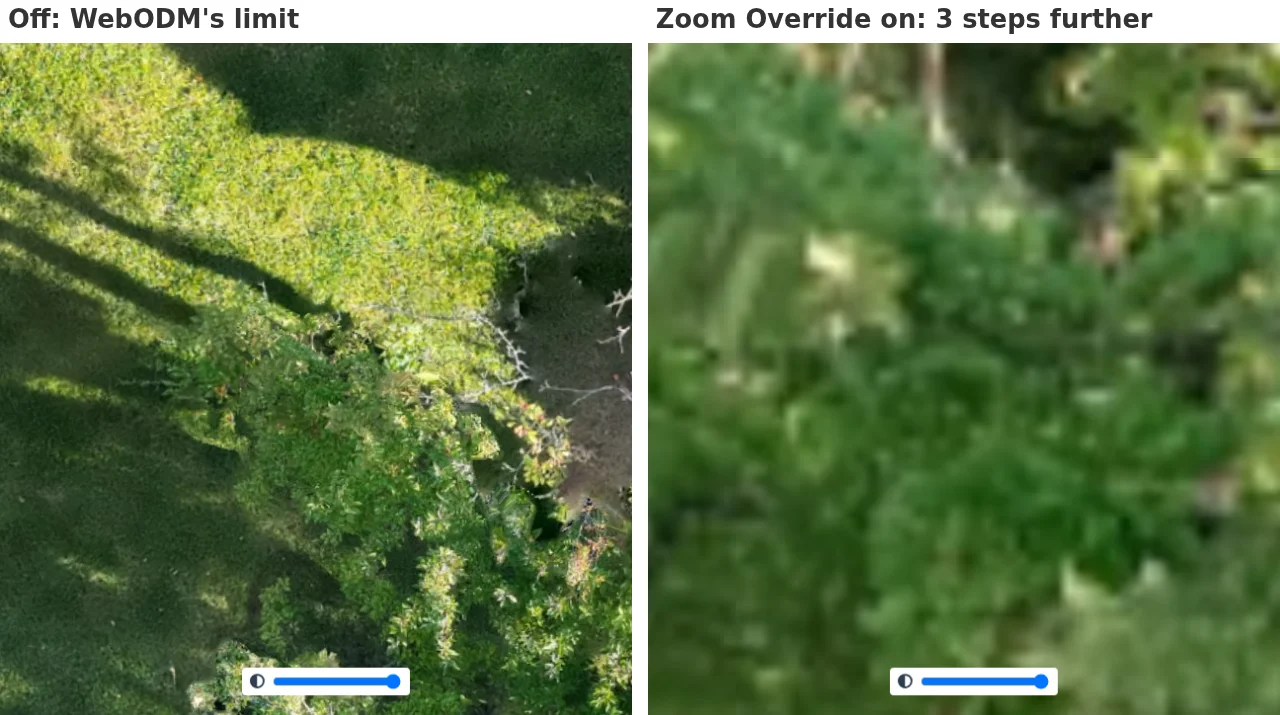
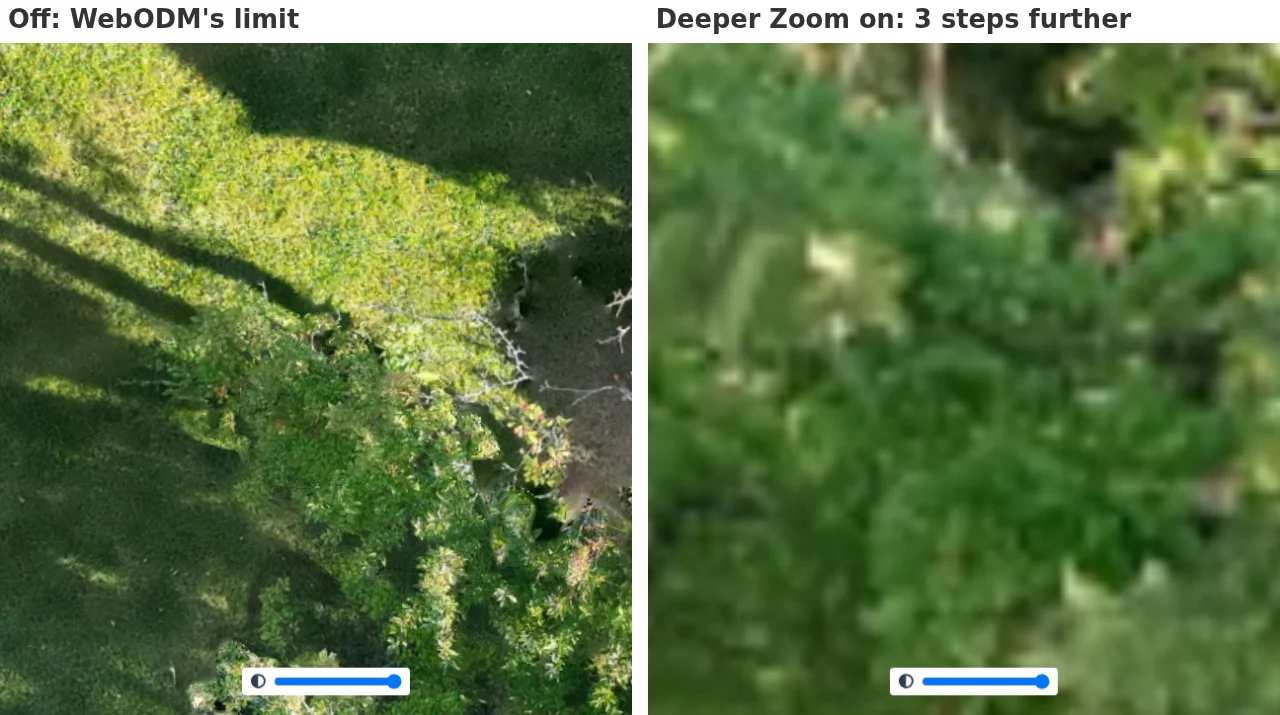
UX review: setting names
Every setting is named after what you get, without "Show" or "Add", with the same name in Settings and
Administration (the list the user approved is in upcoming-changes.md). The setting keys, element ids and preview
files are unchanged, so saved settings carry over. Docs headings are renamed, and the anchors released in 1.0.0
keep working through an empty div before each heading. The zoom-override-2d screenshot is retaken for its caption.

Changed region(s): [[0.5, 0.0, 0.9062, 0.0615]]

diff --git a/tweakui/public/main.css b/tweakui/public/main.css
@@ -157,7 +157,7 @@ html.tweakui #side-menu > li:has(> a[href="/plugins/tweakui/"]):not(.tweakui-men
 html.tweakui-header-compact #navbar-top .navbar-top-links > li > a { padding-left: 8px; padding-right: 8px; }
 html.tweakui-header-nameless #navbar-top .navbar-header > .navbar-link { display: none; }
 
-/* Hide Navigation Pane (nav_pane.js): a small tab on the divider between the side menu and the page, fixed below the
+/* Collapsible Navigation Pane (nav_pane.js): a small tab on the divider between the side menu and the page, fixed below the
    header (its top set by the script); hidden, the side menu goes and the page takes the whole width, the tab at the
    left edge, within the page's 15 px padding. Only where the side menu is beside the page (from 768 px, as WebODM's
    sb-admin-2.css); narrower it is the header's hamburger menu, left as it is. The tab is in the header, as the side
@@ -170,14 +170,14 @@ html.tweakui .tweakui-nav-tab { display: none; }
     /* The page's left padding makes room for the tab at its edge, so it doesn't touch the page's title */
     html.tweakui.tweakui-nav-hidden #page-wrapper { margin-left: 0; padding-left: 30px; }
     html.tweakui.tweakui-nav-hidden .tweakui-nav-tab { left: 0; border-left-width: 0; border-radius: 0 4px 4px 0; }
-    /* Auto-hide Navigation Pane: the hidden pane shown over the page (which keeps its whole width), fixed below the
+    /* Auto-hide: the hidden pane shown over the page (which keeps its whole width), fixed below the
        header (--tweakui-nav-top, from the script) to the bottom of the window, scrolling on its own; the tab on its
        edge */
     html.tweakui.tweakui-nav-hidden.tweakui-nav-peek .navbar-default.sidebar { display: block; position: fixed; top: var(--tweakui-nav-top, 51px); bottom: 0; margin-top: 0; overflow-y: auto; box-shadow: 2px 0 8px rgba(0, 0, 0, 0.35); }
     html.tweakui.tweakui-nav-hidden.tweakui-nav-peek .tweakui-nav-tab { left: calc(var(--tweakui-nav-width, 250px) - 7px); border-left-width: 1px; border-radius: 4px; }
 }
 
-/* Resize Navigation Pane (nav_pane.js): the side menu and the page beside it take the width the script puts in
+/* Resizable Navigation Pane (nav_pane.js): the side menu and the page beside it take the width the script puts in
    --tweakui-nav-width; labels too long are cut off. The handle is a strip on the divider, from the header down,
    highlighted while the pointer is on it; under Bootstrap's dialogs (1040 and up). Icons only (the narrowest): the
    links' text at size 0 but their first icon, their tooltips the script's, submenu items unindented. */
@@ -198,15 +198,15 @@ html.tweakui .tweakui-nav-handle { display: none; }
     html.tweakui.tweakui-nav-hidden .tweakui-nav-handle { display: none; }
 }
 
-/* Show Configured Option Count (task_options.js): the heading's count in place of WebODM's own number */
+/* Configured Option Counts (task_options.js): the heading's count in place of WebODM's own number */
 .option-group-header[data-tweakui-count] > .option-count { display: none; }
 .option-group-header[data-tweakui-count]::after { content: attr(data-tweakui-count); font-size: 0.9em; }
-/* Expand Configured Options (task_options.js): a collapsed group shows its configured options, over WebODM's inline display: none */
+/* Configured Options When Collapsed (task_options.js): a collapsed group shows its configured options, over WebODM's inline display: none */
 .option-group[data-tweakui-expand] > .option-group-content { display: block !important; }
 .option-group[data-tweakui-expand] .option-subgroup:not([data-tweakui-configured]),
 .option-group[data-tweakui-expand] .processing-node-option:not([data-tweakui-configured]) { display: none; }
 
-/* General > Task Details > Expand Task Controls (task_controls.js): a task as buttons only, its +/- a caret */
+/* General > Task Details > Task Buttons When Minimized (task_controls.js): a task as buttons only, its +/- a caret */
 .task-list-item[data-tweakui-controls="buttons"] > .expanded-panel > .row:first-child { display: none; }
 .task-list-item[data-tweakui-controls="buttons"] > .row > .name > i.fa-minus-square::before { content: "\f150"; }
 
@@ -222,7 +222,7 @@ html.tweakui .tweakui-nav-handle { display: none; }
 /* The Current Step label keeps its count on its line */
 .info-table tr[data-tweakui-row="step"] > td:first-child { white-space: nowrap; padding-right: 8px; }
 
-/* 2D Map > Movable Controls (movable_controls.js): a panel is dragged by its title; a moved one stays above the
+/* 2D Map > Movable Panels (movable_controls.js): a panel is dragged by its title; a moved one stays above the
    others */
 html.tweakui-movable .leaflet-control .title,
 html.tweakui-movable .leaflet-control .leaflet-control-autolayers-title,
@@ -240,7 +240,7 @@ html.tweakui-dragging, html.tweakui-dragging * { user-select: none; }
 .tweakui-other-tasks .tweakui-other-task-name input { margin: 0; flex: none; }
 .tweakui-other-tasks .tweakui-other-task-opacity { width: 90px; flex: none; }
 
-/* 2D Map > Add Search Button (map_search.js): the button (Leaflet's bar), and the box it opens in its place */
+/* 2D Map > Map Search (map_search.js): the button (Leaflet's bar), and the box it opens in its place */
 .leaflet-control.tweakui-map-search a.tweakui-map-search-button { display: flex; align-items: center; justify-content: center; font-size: 14px; }
 .leaflet-control.tweakui-map-search .tweakui-map-search-box { display: none; width: 300px; max-width: calc(100vw - 40px); padding: 6px; border-radius: 4px; }
 .leaflet-control.tweakui-map-search.open a.tweakui-map-search-button { display: none; }
@@ -254,7 +254,7 @@ html.tweakui-dragging, html.tweakui-dragging * { user-select: none; }
 .leaflet-control.tweakui-map-search .tweakui-map-search-results a:hover { text-decoration: underline; }
 .tweakui-map-search .tweakui-map-search-results li.active a { font-weight: bold; }
 
-/* 2D Map and 3D Map > Zoom Override > Zoom Sensitivity: the button on the map (a Leaflet control at the bottom left;
+/* 2D Map > Deeper Zoom and 3D Map > Zoom to Pointer > Zoom Sensitivity: the button on the map (a Leaflet control at the bottom left;
    in the 3D view an action button) and its panel, beside it on the 2D map and above it in the 3D view */
 .tweakui-zoom-sensitivity { position: relative; }
 .tweakui-zoom-sensitivity-3d { display: inline-block; }
@@ -492,7 +492,7 @@ html.tweakui-dragging, html.tweakui-dragging * { user-select: none; }
     pointer-events: none;
 }
 
-/* Replace Preset Options Menu (preset_menu.js): TweakUI's menu in place of WebODM's preset select (hidden, kept on
+/* Preset Menu with Filter (preset_menu.js): TweakUI's menu in place of WebODM's preset select (hidden, kept on
    the page), shaped like it: a form-control button with a chevron, and a Bootstrap dropdown menu in theme colours. */
 .edit-task-form select[data-tweakui-presets] { display: none !important; }
 .tweakui-presets { display: inline-block; vertical-align: middle; position: relative; max-width: 100%; }

diff --git a/tweakui/public/nav_pane.js b/tweakui/public/nav_pane.js
@@ -1,17 +1,17 @@
-// General > Navigation Pane > Hide Navigation Pane: a small tab on the divider between the side menu (WebODM's
+// General > Navigation Pane > Collapsible Navigation Pane: a small tab on the divider between the side menu (WebODM's
 // navigation pane) and the page, near the top. A click hides the pane, the page takes the whole width and only the
-// tab stays, at the left edge. The tab cycles: the pane at WebODM's width -> its icons alone (the same view as Resize
+// tab stays, at the left edge. The tab cycles: the pane at WebODM's width -> its icons alone (the same view as Resizable
 // Navigation Pane's narrowest) -> hidden -> WebODM's width again. Remembered in this browser (localStorage), so the
 // next page opens the same way. Only where WebODM shows the pane beside the page (768 px wide and more, main.css); narrower,
 // the pane is the header's hamburger menu, left as it is. The settings page announces each saved change
 // ("tweakuiSettingsChanged"), so turning it on or off there shows or removes the tab at once.
-// General > Navigation Pane > Resize Navigation Pane: the divider is a handle; dragging it sets the side menu's width,
+// General > Navigation Pane > Resizable Navigation Pane: the divider is a handle; dragging it sets the side menu's width,
 // from its icons' column to half the window, and a double click puts back WebODM's 250 px. Narrower than SNAP, it
 // snaps to the icons alone: labels and submenu arrows hidden, each link's name as its tooltip, submenu items unindented
 // so their icons line up. Remembered in this browser too.
-// General > Navigation Pane > Hide Navigation Pane > Auto-hide Navigation Pane: the pane stays hidden until the
+// General > Navigation Pane > Collapsible Navigation Pane > Auto-hide: the pane stays hidden until the
 // pointer nears the window's left edge (or the keyboard's focus goes into it), then shows over the page, which keeps
-// its size (no resize: the maps don't redraw), at its remembered width (Resize Navigation Pane's, else WebODM's); it
+// its size (no resize: the maps don't redraw), at its remembered width (Resizable Navigation Pane's, else WebODM's); it
 // hides again Hide Delay after the pointer leaves it and the tab (or at once with Escape). The tab then pins the pane
 // open beside the page, as without auto-hide, and a second click unpins it; remembered in this browser. UMD, so Jest
 // can load it.
@@ -214,10 +214,10 @@
             html.classList.remove(TAB);
         }
 
-        // The pane as the settings and the pin want it. Hide Navigation Pane on: hidden or icons only as last time
+        // The pane as the settings and the pin want it. Collapsible Navigation Pane on: hidden or icons only as last time
         // (at once, before the page is drawn, so a hidden pane doesn't flash) and the tab once the page is parsed;
         // with auto-hide, hidden unless pinned (and never icons only: the tab pins instead of cycling). Off: the pane
-        // shown, no tab (and WebODM's width, unless Resize Navigation Pane keeps another)
+        // shown, no tab (and WebODM's width, unless Resizable Navigation Pane keeps another)
         function refresh() {
             var autoHide = enabled && auto;
             html.classList.toggle(AUTO, autoHide);
@@ -245,7 +245,7 @@
             pinned: function () { return pinned; }, tab: function () { return tab; }};
     }
 
-    // Resize Navigation Pane: the handle on the divider, and the pane's width
+    // Resizable Navigation Pane: the handle on the divider, and the pane's width
     // Also the pane's width for the tab's icons only, with or without the handle
     function createResize(doc, win) {
         var html = doc.documentElement, handle = null, width = DEFAULT_WIDTH, listeners = {};
@@ -401,7 +401,7 @@
             else removeHandle();
         }
 
-        // Hide Navigation Pane on or off: its tab may keep the icons alone
+        // Collapsible Navigation Pane on or off: its tab may keep the icons alone
         function allowIcons(enabled) {
             iconsOk = enabled;
             restore();

diff --git a/tweakui/public/__tests__/nav_pane.test.js b/tweakui/public/__tests__/nav_pane.test.js
@@ -67,7 +67,7 @@ test("turned on, a tab on the divider below the header cycles the pane: icons on
     expect(t.getAttribute("aria-expanded")).toBe("true");
 });
 
-test("icons only from the tab is the narrow view, without Resize Navigation Pane: each link's name as its tooltip", () => {
+test("icons only from the tab is the narrow view, without Resizable Navigation Pane: each link's name as its tooltip", () => {
     start({hide_nav_pane: true, resize_nav_pane: false});
     tab().click();
     expect(html.classList.contains("tweakui-nav-sized")).toBe(true);
@@ -177,7 +177,7 @@ test("a browser that blocks storage still hides and shows the pane, without reme
     expect(hidden()).toBe(true);
 });
 
-describe("Resize Navigation Pane", () => {
+describe("Resizable Navigation Pane", () => {
     const handle = () => document.querySelector(".tweakui-nav-handle");
     // jsdom has no PointerEvent: a MouseEvent of that type carries button and clientX
     const pointer = (type, x) => handle().dispatchEvent(new MouseEvent(type, {bubbles: true, cancelable: true, button: 0, clientX: x}));
@@ -298,7 +298,7 @@ describe("Resize Navigation Pane", () => {
     });
 });
 
-describe("Auto-hide Navigation Pane", () => {
+describe("Auto-hide", () => {
     const peeking = () => html.classList.contains("tweakui-nav-peek");
     const move = (x, y) => document.dispatchEvent(new MouseEvent("mousemove", {clientX: x, clientY: y, bubbles: true}));
     const pane = () => document.querySelector(".sidebar");
@@ -389,7 +389,7 @@ describe("Auto-hide Navigation Pane", () => {
         expect(hidden()).toBe(false);
     });
 
-    test("the tab no longer gives the icons alone, and the remembered width is Resize Navigation Pane's", () => {
+    test("the tab no longer gives the icons alone, and the remembered width is Resizable Navigation Pane's", () => {
         localStorage.setItem(navPane.WIDTH_KEY, "50");
         start({hide_nav_pane: true, auto_hide_nav_pane: true});
         expect(icons()).toBe(false);
@@ -398,7 +398,7 @@ describe("Auto-hide Navigation Pane", () => {
         expect(width()).toBe("320px");
     });
 
-    test("turned on and off from the settings page, it follows at once; without Hide Navigation Pane it does nothing", () => {
+    test("turned on and off from the settings page, it follows at once; without Collapsible Navigation Pane it does nothing", () => {
         start({hide_nav_pane: true});
         expect(hidden()).toBe(false);
         document.dispatchEvent(new CustomEvent("tweakuiSettingsChanged", {detail: {hide_nav_pane: true, auto_hide_nav_pane: true}}));

diff --git a/tweakui/public/__tests__/task_options.test.js b/tweakui/public/__tests__/task_options.test.js
@@ -85,7 +85,7 @@ test("without a dialog on the page nothing is watched", () => {
     expect(taskOptions.watch(document, {}, window)).toBeNull();
 });
 
-describe("Expand Configured Options", () => {
+describe("Configured Options When Collapsed", () => {
     // A dialog with subgroups, as EditPresetDialog renders a group with more than one; collapsed groups' content
     // has WebODM's inline display: none
     function grouped(groups) {
@@ -119,13 +119,13 @@ describe("Expand Configured Options", () => {
         expect(expanded(root)).toEqual([false]);
     });
 
-    test("without Show Configured Option Count the headings keep WebODM's own number", () => {
+    test("without Configured Option Counts the headings keep WebODM's own number", () => {
         const root = grouped([{collapsed: true, subgroups: [["feature-quality"]]}]);
         taskOptions.update(root, components({"feature-quality": "ultra"}), {expand: true});
         expect(counts(root)).toEqual([null]);
     });
 
-    test("without Expand Configured Options nothing is marked", () => {
+    test("without Configured Options When Collapsed nothing is marked", () => {
         const root = grouped([{collapsed: true, subgroups: [["feature-quality"]]}]);
         taskOptions.update(root, components({"feature-quality": "ultra"}), {count: true});
         expect(expanded(root)).toEqual([false]);
@@ -208,7 +208,7 @@ describe("Expand Configured Options", () => {
             expect(shownGroups(root)).toEqual([true]);
         });
 
-        test("without Expand Configured Options the button is left to WebODM", async () => {
+        test("without Configured Options When Collapsed the button is left to WebODM", async () => {
             const root = withButton([{collapsed: true, subgroups: [["feature-quality"]]}]);
             taskOptions.watch(document, components({"feature-quality": "ultra"}), window, {count: true});
             await press(root);

diff --git a/tweakui/public/surprise_me.js b/tweakui/public/surprise_me.js
@@ -2,7 +2,7 @@
 // turned off. A show lasts a few seconds and the next follows 4 to 8 seconds later; none starts while the tab is
 // hidden. A right-click (also a Mac's Ctrl+click) sends a rocket that bursts where the pointer is, instead of the
 // browser's menu (which text fields and Shift + right-click still get); a right-drag (the 3D view's pan) sends none.
-// Its part Enable Interaction (surprise_me_interaction, on by default) turns the right-click's rocket off, leaving the
+// Its part Rockets on Right-click (surprise_me_interaction, on by default) turns the right-click's rocket off, leaving the
 // mouse to the browser and the page. The fireworks are fireworks-js (vendor/fireworks-js, MIT), loaded only
 // when a show starts, on a canvas over the page that clicks go through. The settings page announces each saved
 // change ("tweakuiSettingsChanged"), so turning it on there starts a show at once and turning it off ends it at once.
@@ -211,7 +211,7 @@
             } else if (!enabled && on) stop();
         }
 
-        // Enable Interaction: off, a right-click is the browser's again (a press under way is let go)
+        // Rockets on Right-click: off, a right-click is the browser's again (a press under way is let go)
         function interact(enabled) {
             interactive = enabled;
             if (!enabled) press = released = null;

diff --git a/dev/screenshots.js b/dev/screenshots.js
@@ -13,7 +13,7 @@ const OUT = path.join(__dirname, "..", "tweakui", "public", "previews");
 const WIDTH = 1280, HEIGHT = 800, MAX_WIDTH = 1280;
 
 // Every shot: its name (the image's), the settings it turns on (on top of WebODM's theme, the rest as they are;
-// a Dashboard shot turns Expand Task Controls off, which expands every task of the project),
+// a Dashboard shot turns Task Buttons When Minimized off, which expands every task of the project),
 // and what it does to show the feature, returning what to capture: an element's selector, "page" for the
 // viewport, or {pair: [[label, png], ...]} for images side by side (two or three). A pair turns its setting on itself.
 // An optional cleanup(s) runs after the shot, also when it failed.
@@ -313,7 +313,7 @@ const SHOTS = [
                     await s.page.waitForTimeout(350);
                 }
                 await s.page.waitForTimeout(2500);
-                shots.push([on ? "Zoom Override on: 3 steps further" : "Off: WebODM's limit", await s.page.screenshot({clip: await s.middle(".leaflet-container")})]);
+                shots.push([on ? "Deeper Zoom on: 3 steps further" : "Off: WebODM's limit", await s.page.screenshot({clip: await s.middle(".leaflet-container")})]);
             }
             return {pair: shots};
         },

diff --git a/tweakui/public/task_options.js b/tweakui/public/task_options.js
@@ -1,9 +1,9 @@
-// General > Task Options > Show Configured Option Count: in the Task Options dialog (EditPresetDialog in WebODM),
+// General > Task Options > Configured Option Counts: in the Task Options dialog (EditPresetDialog in WebODM),
 // each group heading's "(13)" becomes "(configured/total)", kept up to date as options change. An option is
 // configured when it is not at ODM's default, which is when its component's getValue() is undefined, as "Reset to
 // default" leaves it. The count goes in the heading's data-tweakui-count attribute, which main.css shows in place of
 // WebODM's number: React re-renders its own text but leaves the attribute alone.
-// General > Task Options > Expand Configured Options: a collapsed group still shows its configured options, WebODM's
+// General > Task Options > Configured Options When Collapsed: a collapsed group still shows its configured options, WebODM's
 // own controls, under its heading. WebODM keeps a collapsed group's options on the page, hidden by an inline
 // display: none; data-tweakui-expand on the group, data-tweakui-configured on its configured options and subgroups,
 // and main.css show only those. "Other Options" is not on the page while closed, so it shows nothing. The dialog's

diff --git a/tweakui/public/zoom_override.js b/tweakui/public/zoom_override.js
@@ -1,7 +1,7 @@
-// 2D Map and 3D Map > Zoom Override. The 2D map zooms 3 steps further than WebODM lets it (zoom 24, Map.jsx), with
+// 2D Map > Deeper Zoom and 3D Map > Zoom to Pointer. The 2D map zooms 3 steps further than WebODM lets it (zoom 24, Map.jsx), with
 // the wheel, the + button and a pinch: the map hook lifts Leaflet's limit (the layers already enlarge their tiles
 // past their own zoom). In the 3D view, Potree's orbit controls zoom toward the orbit centre and slow down as they
-// near it; with Zoom Override the wheel zooms toward what is under the pointer (the point cloud or the textured
+// near it; with Zoom to Pointer the wheel zooms toward what is under the pointer (the point cloud or the textured
 // model; pick3d.js) and the orbit centre moves to that depth, so any surface can be neared. Over nothing, and in
 // Potree's other navigation modes, the wheel is Potree's as before. Zoom Sensitivity (a part of each) scales how far
 // a wheel notch zooms: on the 2D map TweakUI's own wheel replaces Leaflet's while it isn't 100%; in the 3D view the

diff --git a/tweakui/public/other_tasks.js b/tweakui/public/other_tasks.js
@@ -1,8 +1,8 @@
-// 2D Map > Compare Orthophotos from Other Tasks: on a task's map (not a project's map, which has every task's layers), a button below Layers
+// 2D Map > Other Tasks' Orthophotos: on a task's map (not a project's map, which has every task's layers), a button below Layers
 // opens an "Other Tasks" panel: the project's other tasks with an orthophoto, each with a checkbox that shows its
 // orthophoto over the task's own layers (cropped as its task is) and an opacity slider. None is shown on opening and
 // nothing is remembered. The panel takes the classes of WebODM's Layers panel, so it looks like it (and Movable
-// Controls drags it by its title). Leaflet comes from the map hook's dependencies, as WebODM's plugins get it; the
+// Panels drags it by its title). Leaflet comes from the map hook's dependencies, as WebODM's plugins get it; the
 // layers are built as WebODM's map builds an orthophoto's (Map.jsx: 512-px tiles, rescaled to the RGB bands'
 // statistics). UMD, so Jest can load it.
 (function (root, factory) {

diff --git a/tweakui/public/__tests__/surprise_me.test.js b/tweakui/public/__tests__/surprise_me.test.js
@@ -234,7 +234,7 @@ test("on Linux and Mac (the contextmenu on the press), the menu key right after 
     expect(menu.defaultPrevented).toBe(false);
 });
 
-test("Enable Interaction off: the fireworks go on, but a right-click is the browser's, in either order", async () => {
+test("Rockets on Right-click off: the fireworks go on, but a right-click is the browser's, in either order", async () => {
     window.TweakUI = {settings: {surprise_me: true, surprise_me_interaction: false}};
     const f = fake();
     start(f.env);
@@ -245,7 +245,7 @@ test("Enable Interaction off: the fireworks go on, but a right-click is the brow
     expect(f.pending()).toHaveLength(1);
 });
 
-test("Enable Interaction turned off or on in the settings page takes effect at once, the shows going on", async () => {
+test("Rockets on Right-click turned off or on in the settings page takes effect at once, the shows going on", async () => {
     window.TweakUI = {settings: {surprise_me: true}};
     const f = fake();
     start(f.env);

diff --git a/dev/selector-check.js b/dev/selector-check.js
@@ -122,7 +122,7 @@ async function main() {
                 await page.click('button[title="Edit Task Options"]');
                 await page.waitForSelector(".edit-preset-dialog", {state: "attached", timeout: 15000});
                 await page.waitForTimeout(1000);
-                // Every group open (the Expand/Collapse button: Expand All, then with TweakUI's Expand Configured Options, more
+                // Every group open (the Expand/Collapse button: Expand All, then with TweakUI's Configured Options When Collapsed, more
                 // steps), so the options and subgroups are on the page
                 for (let i = 0; i < 3 && !(await page.$(".edit-preset-dialog .fa-angle-double-up")); i++) {
                     await page.click(".edit-preset-dialog button:has(.fa-angle-double-down)");

diff --git a/tweakui/public/preset_menu.js b/tweakui/public/preset_menu.js
@@ -1,4 +1,4 @@
-// General > Task Options > Replace Preset Options Menu: the Options preset dropdown of a task's form (the New Task
+// General > Task Options > Preset Menu with Filter: the Options preset dropdown of a task's form (the New Task
 // panel's and a task's Edit form, EditTaskForm in WebODM) becomes a menu of TweakUI's own, in theme colours: (Custom)
 // at the top when the options were edited; then two submenus that open in the list, "User Presets" (the user's own)
 // and "System Presets" (WebODM's, Default among them), each A-Z and open at first. WebODM's select stays on the page,
